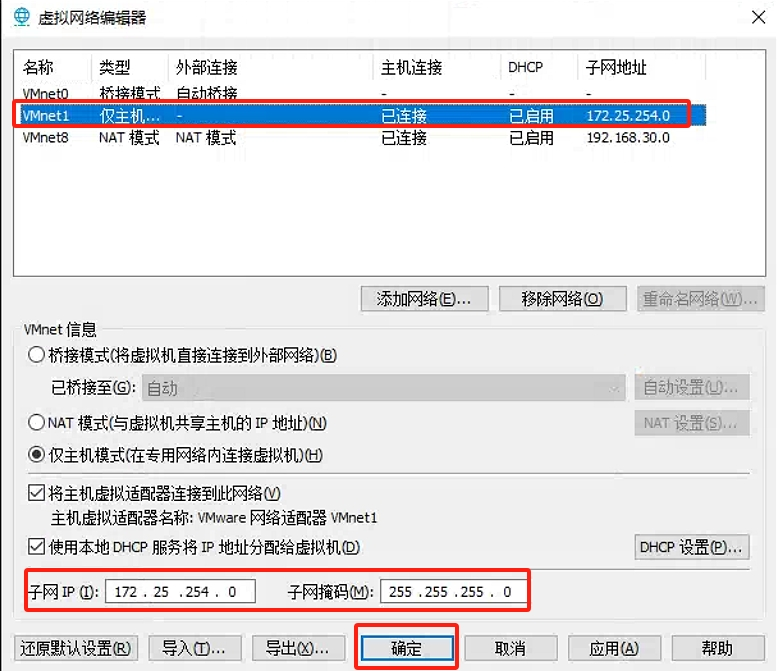
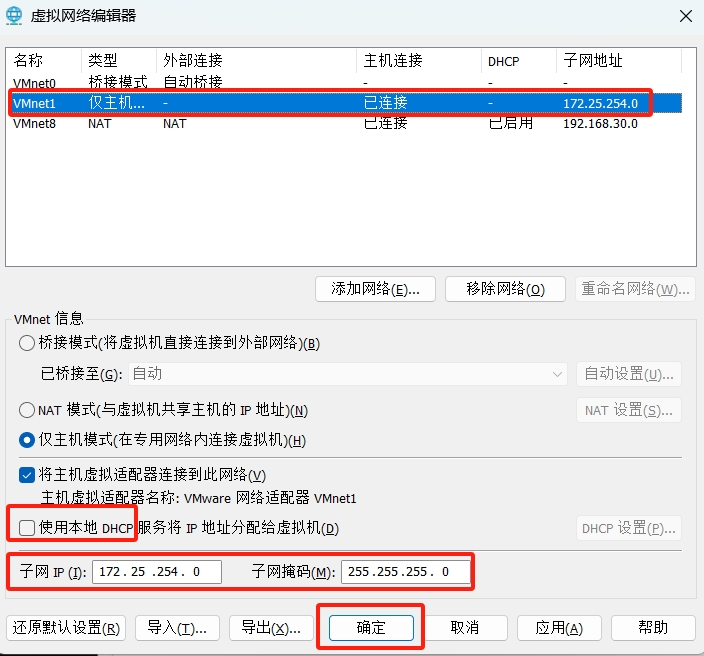
modify rhce9 guide to disable vmnet1 dhcp

diff --git a/rhce9/RHCE9.0-VMs-Usage-Guide.md b/rhce9/RHCE9.0-VMs-Usage-Guide.md
@@ -20,17 +20,21 @@
 
 | 角色         | 账号              | 密码                |
 | ---------- | --------------- | ----------------- |
-| foundation | root<br>kiosk   | Asimov<br>redhat  |
+| VMware虚拟机 | root<br>kiosk   | Asimov<br>redhat  |
 | 所有其他虚拟机    | root<br>student | redhat<br>student |
 
 ## 准备工作
 
 ### VMware Workstation下载地址：
 
-将链接复制到浏览器，即可自动开始下载，另外此为付费软件，可试用，本次课程使用试用版，如有必要，请支持正版
+<mark>除非特别说明，不然请使用我们百度网盘里的版本或官网的最新版，所以请使用我们提供的版本升级你电脑上的VMware软件</mark>
+
+我们的百度网盘已提供了此软件的最新版下载，如需自己从官方下载，可以在下面的链接自行操作
+
+注册账号，打开以下链接选择Windows即可开始下载，此软件官方已确定对包括商用在内的场景免费，无版权问题
 
 ```textile
-https://www.vmware.com/go/getworkstation-win
+https://support.broadcom.com/group/ecx/productdownloads?subfamily=VMware%20Workstation%20Pro
 ```
 
 ### 修改VMware 虚拟机的网卡信息
@@ -45,7 +49,7 @@ https://www.vmware.com/go/getworkstation-win
 
 ![vmnetedit](https://gitee.com/cnlxh/rhel/raw/master/rhce9/images/vmware/changeset.png)
 
-确保选中了 `VMnet1` ，并将子网信息改为 `172.25.254.0` ， 掩码 `255.255.255.0` 点击确定
+确保选中了 `VMnet1` ，并将子网信息改为 `172.25.254.0` ， 掩码 `255.255.255.0` ，另外要注意，我们需要去掉VMnet1网卡的DHCP功能，不然后续的bastion机器无法启动会导致环境无法使用，确认都改好了之后，点击确定
 
 ![vm-network-confirm](https://gitee.com/cnlxh/rhel/raw/master/rhce9/images/vmware/vm-network-confirm.png)
 
